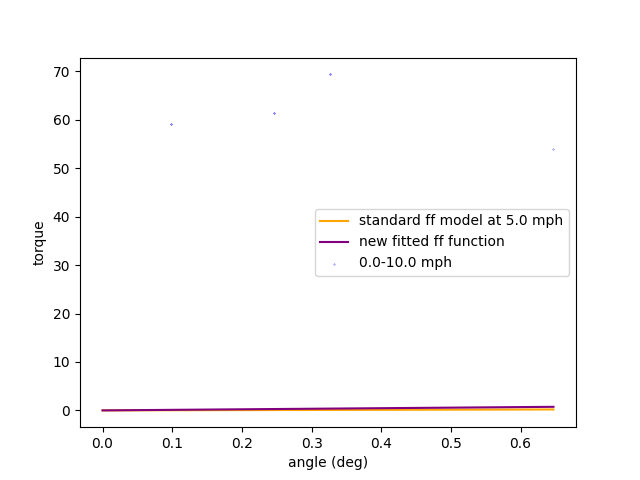
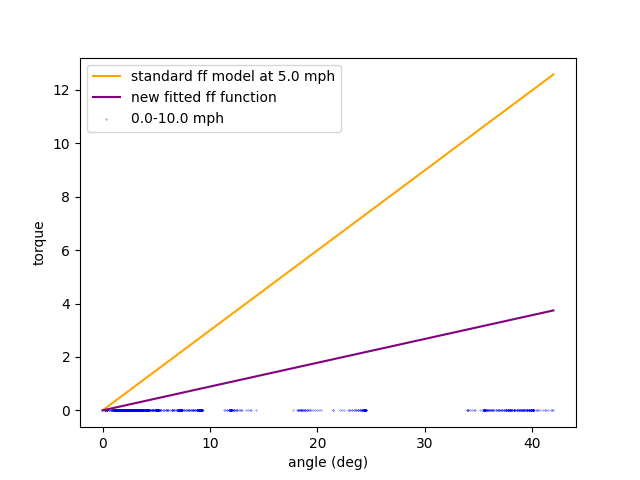
auto_ff for gm

diff --git a/tools/tuning/find_lateral_kf.py b/tools/tuning/find_lateral_kf.py
@@ -27,7 +27,7 @@ from scipy.optimize import curve_fit
 from selfdrive.config import Conversions as CV
 import pickle
 
-STEER_THRESHOLD = 100
+STEER_THRESHOLD = 50
 DT_CTRL = 0.01
 
 old_kf = 0.00004  # for plotting old function compared to new polynomial function
@@ -58,15 +58,24 @@ def load_and_process_rlogs(lr, file_name):
   last_time = 0
   can_updated = False
 
+  # signals = [
+  #   ("STEER_REQUEST", "STEERING_LKA", 0),
+  #   ("STEER_TORQUE_CMD", "STEERING_LKA", 0),
+  #   ("STEER_TORQUE_DRIVER", "STEER_TORQUE_SENSOR", 0),
+  #   ("STEER_ANGLE", "STEER_TORQUE_SENSOR", 0),
+  #   ("STEER_ANGLE", "STEER_ANGLE_SENSOR", 0),
+  #   ("STEER_FRACTION", "STEER_ANGLE_SENSOR", 0),
+  # ]
+  # cp = CANParser("toyota_nodsu_pt_generated", signals, enforce_checks=False)  # todo: auto load dbc from logs
+
   signals = [
-    ("STEER_REQUEST", "STEERING_LKA", 0),
-    ("STEER_TORQUE_CMD", "STEERING_LKA", 0),
-    ("STEER_TORQUE_DRIVER", "STEER_TORQUE_SENSOR", 0),
-    ("STEER_ANGLE", "STEER_TORQUE_SENSOR", 0),
-    ("STEER_ANGLE", "STEER_ANGLE_SENSOR", 0),
-    ("STEER_FRACTION", "STEER_ANGLE_SENSOR", 0),
+    ("LKADriverAppldTrq", "PSCMStatus", 0),
+    ("LKATorqueDelivered", "PSCMStatus", 0),
+    ("LKASteeringCmd", "ASCMLKASteeringCmd", 0)
+    # ("SteeringWheelAngle", "PSCMSteeringAngle", 0),
+    # ("SteeringWheelRate", "PSCMSteeringAngle", 0),
   ]
-  cp = CANParser("toyota_nodsu_pt_generated", signals, enforce_checks=False)  # todo: auto load dbc from logs
+  cp = CANParser("gm_global_a_powertrain", signals, enforce_checks=False)  # todo: auto load dbc from logs
 
   all_msgs = sorted(lr, key=lambda msg: msg.logMonoTime)
 
@@ -75,7 +84,7 @@ def load_and_process_rlogs(lr, file_name):
       v_ego = msg.carState.vEgo
       angle_steers = msg.carState.steeringAngleDeg  # this is offset from can by 1 frame. it's within acceptable margin of error and we get more accuracy for TSS2
       angle_rate = msg.carState.steeringRateDeg
-      eps_torque = msg.carState.steeringTorqueEps
+      eps_torque = 100*msg.carState.steeringTorqueEps
 
     elif msg.which() == 'liveParameters':
       angle_offset = msg.liveParameters.angleOffsetDeg
@@ -85,12 +94,12 @@ def load_and_process_rlogs(lr, file_name):
 
     cp_updated = cp.update_string(msg.as_builder().to_bytes())
     for u in cp_updated:
-      if u == 0x2e4:  # STEERING_LKA
+      if u == 388 or u == 384:  # PSCMStatus
         can_updated = True
 
-    torque_cmd = int(cp.vl['STEERING_LKA']['STEER_TORQUE_CMD'])
-    steer_req = bool(cp.vl['STEERING_LKA']['STEER_REQUEST'])
-    steering_pressed = abs(cp.vl['STEER_TORQUE_SENSOR']['STEER_TORQUE_DRIVER']) > STEER_THRESHOLD
+    torque_cmd = int(cp.vl['ASCMLKASteeringCmd']['LKASteeringCmd'])
+    steer_req = bool(cp.vl['ASCMLKASteeringCmd']['LKASteeringCmd'])
+    steering_pressed = abs(cp.vl['PSCMStatus']['LKADriverAppldTrq']) > STEER_THRESHOLD
 
     sample_ok = None not in [v_ego, angle_offset, torque_cmd] and can_updated
     sample_ok = sample_ok and (steer_req and not steering_pressed or not steer_req)  # bad sample if engaged and override, but not if disengaged
@@ -116,7 +125,7 @@ def load_and_process_rlogs(lr, file_name):
 
 def fit_ff_model(lr):
   # TSS2 Corolla looks to be around 0.5 to 0.6
-  STEER_DELAY = round(0.12 + 0.2 / DT_CTRL)  # important: needs to be accurate
+  STEER_DELAY = round(0.4/DT_CTRL)  # important: needs to be accurate
 
   if os.path.exists('processed_data'):
     print('exists')
@@ -296,7 +305,7 @@ def fit_ff_model(lr):
 
 
 if __name__ == '__main__':
-  r = Route(sys.argv[1])
+  r = Route(sys.argv[1], data_dir="/mnt/f/openpilot-data/2021-05-27--02-24-10--24-sf-to-home")
   lr = MultiLogIterator(r.log_paths(), wraparound=False)
 
   n = fit_ff_model(lr)

diff --git a/tools/lib/route.py b/tools/lib/route.py
@@ -7,7 +7,7 @@ from itertools import chain
 from tools.lib.auth_config import get_token
 from tools.lib.api import CommaApi
 
-SEGMENT_NAME_RE = r'[a-z0-9]{16}[|_][0-9]{4}-[0-9]{2}-[0-9]{2}--[0-9]{2}-[0-9]{2}-[0-9]{2}--[0-9]+'
+SEGMENT_NAME_RE = r'[0-9]{4}-[0-9]{2}-[0-9]{2}--[0-9]{2}-[0-9]{2}-[0-9]{2}--[0-9]+'
 EXPLORER_FILE_RE = r'^({})--([a-z]+\.[a-z0-9]+)$'.format(SEGMENT_NAME_RE)
 OP_SEGMENT_DIR_RE = r'^({})$'.format(SEGMENT_NAME_RE)
 
